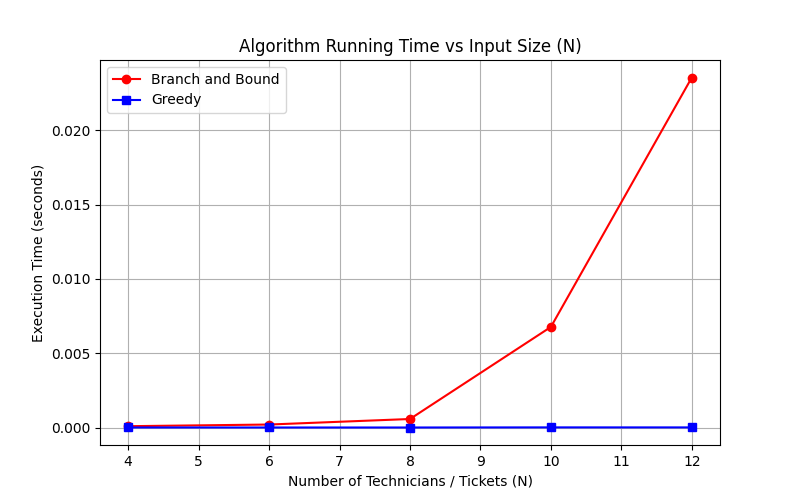
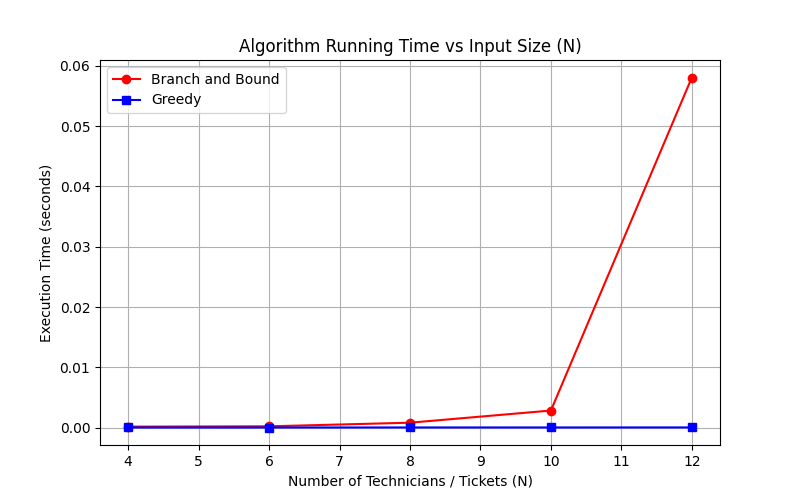
Updated code implementation

diff --git a/Batches/Batch_10/code/rejected_alternative.py b/Batches/Batch_10/code/rejected_alternative.py
@@ -1,4 +1,4 @@
-import sys
+import sys    # Implementation by Purushothaman
 
 def solve_greedy(cost_matrix):
     n = len(cost_matrix)

diff --git a/Batches/Batch_10/code/generate_inputs.py b/Batches/Batch_10/code/generate_inputs.py
@@ -1,3 +1,4 @@
+# Implementation by Purushothaman
 import random
 import time
 import csv
